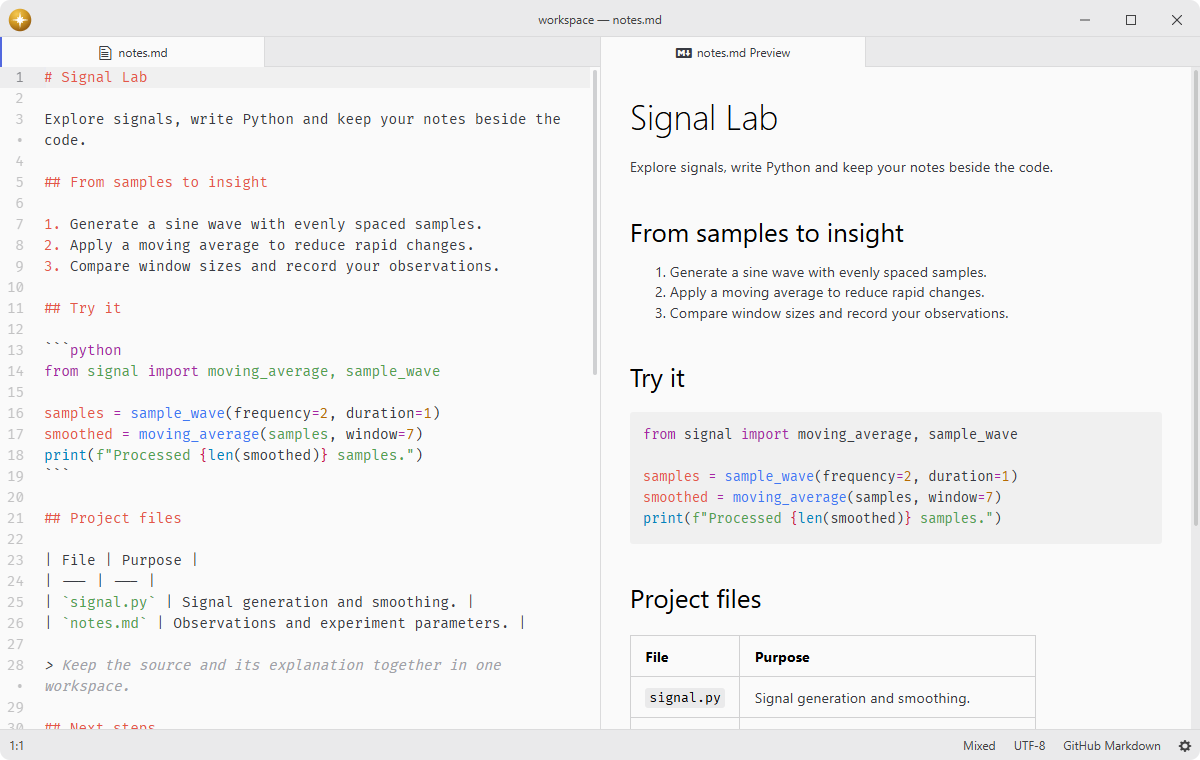
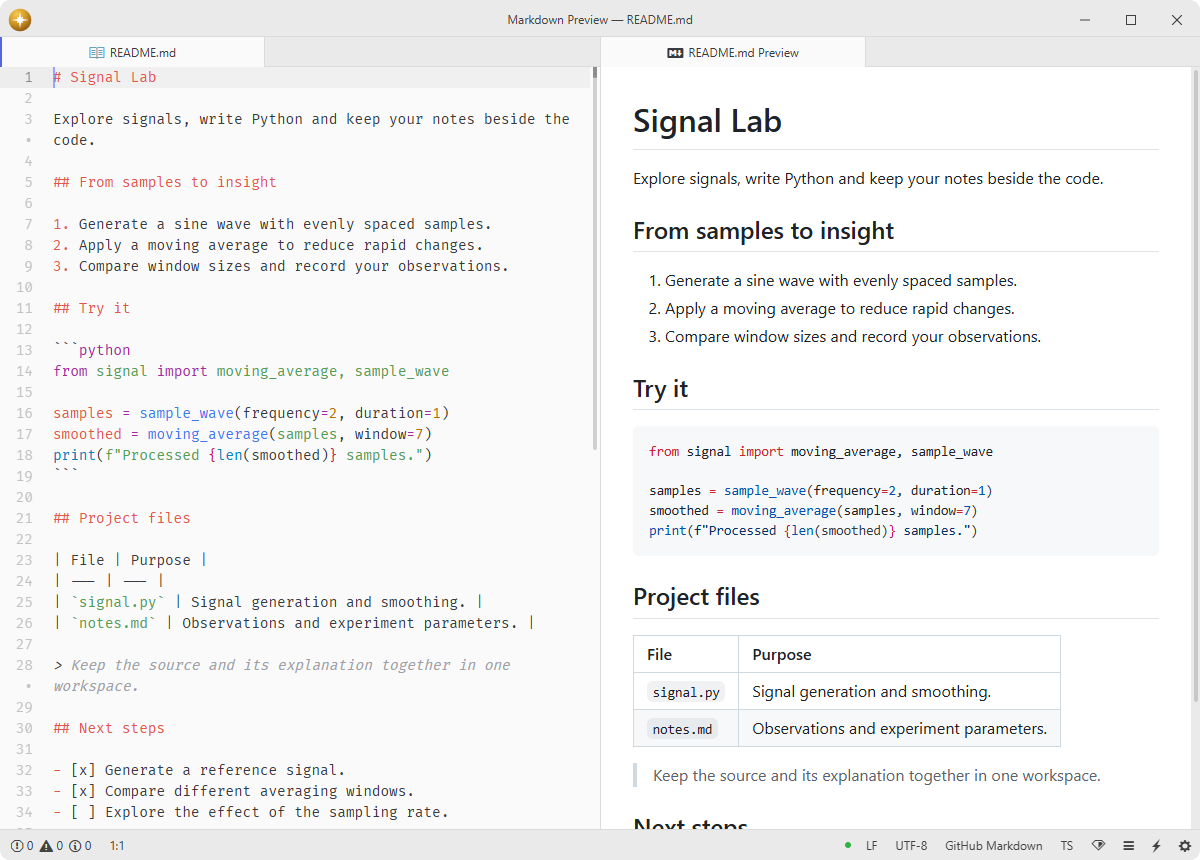
Add screenshots beneath the feature list

diff --git a/README.md b/README.md
@@ -15,7 +15,9 @@ Fork of [pulsar-edit/pulsar](https://github.com/pulsar-edit/pulsar) (`packages/m
 - **GitHub styling**: renders with GitHub.com typography, colors and spacing by default, in light, dark, or system mode.
 - **Zoom controls**: zooms the preview in and out or resets it to the default level.
 
-![Markdown source and rendered preview in adjacent panes.](.github/demo.png)
+![Markdown source beside the preview with GitHub light styling.](.github/demo.png)
+
+![Markdown source beside the preview with GitHub dark styling.](.github/demo-2.png)
 
 ## Installation
 
